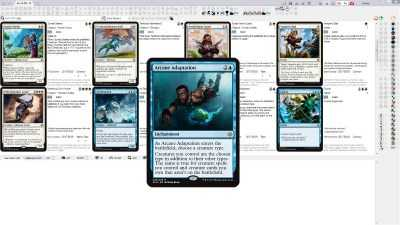
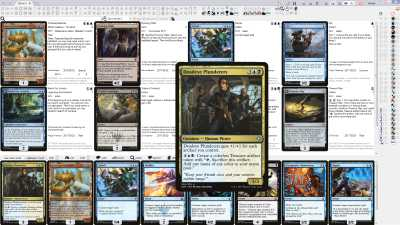
2.2.4 updated images in xln, c17

diff --git a/Mtgdb.Controls/BmpProcessor.cs b/Mtgdb.Controls/BmpProcessor.cs
@@ -10,37 +10,34 @@ namespace Mtgdb
 		private const int ByesPerPixel = 4;
 		private readonly Bitmap _bmp;
 
-		protected Rectangle Rect { get; private set; }
+		protected Rectangle Rect { get; }
 		protected byte[] RgbValues { get; private set; }
 		public bool ImageChanged { get; protected set; }
 
-		protected BmpProcessor(Bitmap bmp)
+		protected BmpProcessor(Bitmap bmp, Rectangle? rect = null)
 		{
 			_bmp = bmp;
+			Rect = rect ?? new Rectangle(Point.Empty, _bmp.Size);
 		}
 
 		public void Execute()
 		{
-			const PixelFormat pixelFormat = PixelFormat.Format32bppArgb;
-
-			// Lock the bitmap's bits.
-			Rect = new Rectangle(Point.Empty, _bmp.Size);
-			var bmpData = _bmp.LockBits(Rect, ImageLockMode.ReadWrite, pixelFormat);
+			const PixelFormat format = PixelFormat.Format32bppArgb;
+			var bmpData = _bmp.LockBits(Rect, ImageLockMode.ReadWrite, format);
 
 			try
 			{
 				// Declare an array to hold the bytes of the bitmap. 
-				int numBytes = bmpData.Stride * Rect.Height;
+				int numBytes = bmpData.Stride * bmpData.Height;
 				RgbValues = new byte[numBytes];
 
-				var firstBytePtr = bmpData.Scan0;
-				Marshal.Copy(firstBytePtr, RgbValues, 0, numBytes);
+				Marshal.Copy(bmpData.Scan0, RgbValues, 0, numBytes);
 
 				ExecuteRaw();
 
 				if (ImageChanged)
 					// Copy the RGB values back to the bitmap
-					Marshal.Copy(RgbValues, 0, firstBytePtr, numBytes);
+					Marshal.Copy(RgbValues, 0, bmpData.Scan0, numBytes);
 			}
 			finally
 			{
@@ -88,43 +85,41 @@ namespace Mtgdb
 		private const int ByesPerPixel = 4;
 
 		private readonly Bitmap _bmp;
-		private readonly BitmapData _bitmapData;
+		private readonly BitmapData _bmpData;
 
-		protected Rectangle Rect { get; }
+		private Rectangle _rect;
 		public byte[] RgbValues { get; }
 		
-		public BmpReader(Bitmap bmp)
+		public BmpReader(Bitmap bmp, Rectangle rect)
 		{
+			const PixelFormat format = PixelFormat.Format32bppArgb;
+
+			_rect = rect;
 			_bmp = bmp;
-			const PixelFormat pixelFormat = PixelFormat.Format32bppArgb;
-			// Lock the bitmap's bits.
-			Rect = new Rectangle(Point.Empty, _bmp.Size);
-
-			_bitmapData = _bmp.LockBits(Rect, ImageLockMode.ReadOnly, pixelFormat);
+			_bmpData = _bmp.LockBits(_rect, ImageLockMode.ReadOnly, format);
 			
-			int numBytes = _bitmapData.Stride * Rect.Height;
+			int numBytes = _bmpData.Stride * _bmpData.Height;
 			RgbValues = new byte[numBytes];
-
-			var firstBytePtr = _bitmapData.Scan0;
-			Marshal.Copy(firstBytePtr, RgbValues, 0, numBytes);
+			Marshal.Copy(_bmpData.Scan0, RgbValues, 0, numBytes);
 		}
 
 		public int GetLocation(int x, int y)
 		{
-			return ByesPerPixel * (Rect.Width * y + x);
+			return ByesPerPixel * (_rect.Width * y + x);
 		}
 
 		public void Dispose()
 		{
-			_bmp.UnlockBits(_bitmapData);
+			_bmp.UnlockBits(_bmpData);
 		}
 	}
 
 	public class BmpScaler : BmpProcessor
 	{
-		public BmpScaler(Bitmap bmp, Bitmap original) : base(bmp)
+		public BmpScaler(Bitmap bmp, Bitmap original, Rectangle sourceRect) : base(bmp)
 		{
 			_original = original;
+			_sourceRect = sourceRect;
 		}
 
 		protected override void ExecuteRaw()
@@ -134,7 +129,7 @@ namespace Mtgdb
 			float scaleX = (float)_original.Width / Rect.Width;
 			float scaleY = (float)_original.Height / Rect.Height;
 			
-			using (var original = new BmpReader(_original))
+			using (var original = new BmpReader(_original, _sourceRect))
 				for (int i = 0; i < Rect.Width; i++)
 				{
 					float left = i * scaleX;
@@ -214,5 +209,6 @@ namespace Mtgdb
 		}
 
 		private readonly Bitmap _original;
+		private readonly Rectangle _sourceRect;
 	}
 }

diff --git a/Test/Mtgdb.Test/ExportImages/ExportImages.cs b/Test/Mtgdb.Test/ExportImages/ExportImages.cs
@@ -1,0 +1,51 @@
+using Mtgdb.Controls;
+using Mtgdb.Dal;
+using Mtgdb.Util;
+using Ninject;
+using NUnit.Framework;
+
+namespace Mtgdb.Test
+{
+	[TestFixture]
+	public class ExportImages
+	{
+		private ForgeIntegration _integration;
+
+		[OneTimeSetUp]
+		public void Setup()
+		{
+			BitmapExtensions.CustomScaleStrategy = ImageMagickScaler.Scale;
+
+			var kernel = new StandardKernel();
+			kernel.Load<CoreModule>();
+			kernel.Load<DalModule>();
+			kernel.Load<UtilModule>();
+
+			var repo = kernel.Get<CardRepository>();
+			repo.LoadFile();
+			repo.Load();
+
+			var imgRepo = kernel.Get<ImageRepository>();
+
+			imgRepo.LoadFiles();
+			imgRepo.LoadZoom();
+
+			repo.SelectCardImages(imgRepo);
+
+			_integration = kernel.Get<ForgeIntegration>();
+		}
+
+		//[TestCase("XLN", @"D:\Distrib\games\mtg\Mtgdb.Pictures", "lq", "mq")]
+		[TestCase("C17", @"D:\Distrib\games\mtg\Mtgdb.Pictures", "lq", "mq")]
+		public void Export(string set, string targetDir, string smallSubdir, string zoomSubdir)
+		{
+			_integration.ExportCardImages(
+				targetDir,
+				small: true,
+				zoomed: true,
+				code: set,
+				smallSubdir: smallSubdir,
+				zoomedSubdir: zoomSubdir);
+		}
+	}
+}

diff --git a/Mtgdb.Controls/BitmapExtensions.cs b/Mtgdb.Controls/BitmapExtensions.cs
@@ -7,6 +7,8 @@ namespace Mtgdb.Controls
 {
 	public static class BitmapExtensions
 	{
+		public static Func<Bitmap, Rectangle, Size, Bitmap> CustomScaleStrategy { get; set; }
+
 		public static Bitmap ResizeDpi(this Bitmap original)
 		{
 			return original.FitIn(original.Size.ByDpi());
@@ -25,13 +27,23 @@ namespace Mtgdb.Controls
 
 			size = croppedSize.FitIn(size);
 
-			if (size == original.Size)
+			if (size == original.Size && frame == default(Size))
 				return (Bitmap) original.Clone();
 
-			var result = new Bitmap(size.Width, size.Height);
-			var scaler = new BmpScaler(result, original);
-			scaler.Execute();
+			var sourceRect = new Rectangle(new Point(frame), croppedSize);
 
+			var result = scale(original, sourceRect, size);
+			return result;
+		}
+
+		private static Bitmap scale(Bitmap original, Rectangle sourceRect, Size size)
+		{
+			if (CustomScaleStrategy != null)
+				return CustomScaleStrategy(original, sourceRect, size);
+
+			var result = new Bitmap(size.Width, size.Height);
+			var scaler = new BmpScaler(result, original, sourceRect);
+			scaler.Execute();
 			return result;
 		}
 

diff --git a/Test/Mtgdb.Test/DownsamplingTests.cs b/Test/Mtgdb.Test/DownsamplingTests.cs
@@ -1,5 +1,4 @@
-using System.Drawing;
-using System.IO;
+using System.IO;
 using ImageMagick;
 using NUnit.Framework;
 
@@ -8,13 +7,22 @@ namespace Mtgdb.Test
 	[TestFixture]
 	public class DownsamplingTests
 	{
-		[TestCase("F:\\Repo\\Git\\Mtgdb\\Mtgdb.Gui\\Resources\\r.png")]
+		[TestCase(@"D:\Distrib\games\mtg\Mega\XLHQ\XLN - Ixalan\300DPI Cards\Adanto, the First Fort.xlhq.jpg")]
 		public void Resample(string file)
 		{
+			string name = Path.GetFileNameWithoutExtension(file);
+			string targetDir = "D:\\temp\\img\\";
+
 			using (var image = new MagickImage(file))
 			{
 				image.Resize(new Percentage(50));
-				image.Write("D:\\temp\\img\\" + Path.GetFileName(file));
+				image.Write(targetDir + name + "resized.jpg");
+			}
+
+			using (var image = new MagickImage(file))
+			{
+				image.Scale(new Percentage(50));
+				image.Write(targetDir + name + "scaled.jpg");
 			}
 		}
 	}

diff --git a/Mtgdb.Dal/ImageCache/ImageCache.cs b/Mtgdb.Dal/ImageCache/ImageCache.cs
@@ -1,6 +1,5 @@
 using System.Collections.Generic;
 using System.Drawing;
-using System.Drawing.Drawing2D;
 using System.IO;
 using Mtgdb.Controls;
 using Mtgdb.Gui;
@@ -10,6 +9,8 @@ namespace Mtgdb.Dal
 {
 	public class ImageCache
 	{
+		public static object SyncRoot = new object();
+
 		public ImageCache(ImageCacheConfig config, SmallConfig smallConfig, ZoomedConfig zoomedConfig)
 		{
 			if (smallConfig.Width.HasValue && smallConfig.Height.HasValue)
@@ -73,7 +74,12 @@ namespace Mtgdb.Dal
 
 			try
 			{
-				original = new Bitmap(model.FullPath);
+				byte[] bytes;
+
+				lock (SyncRoot)
+					bytes = File.ReadAllBytes(model.FullPath);
+
+				original = new Bitmap(new MemoryStream(bytes));
 			}
 			catch
 			{

diff --git a/Test/Mtgdb.Test/ExportImages/ImageMagickScaler.cs b/Test/Mtgdb.Test/ExportImages/ImageMagickScaler.cs
@@ -1,0 +1,22 @@
+using System.Drawing;
+using ImageMagick;
+
+namespace Mtgdb.Util
+{
+	public static class ImageMagickScaler
+	{
+		public static Bitmap Scale(Bitmap original, Rectangle sourceRect, Size targetSize)
+		{
+			using (var magic = new MagickImage(original))
+			{
+				if (sourceRect != new Rectangle(Point.Empty, original.Size))
+					magic.Crop(new MagickGeometry(sourceRect));
+
+				if (targetSize != sourceRect.Size)
+					magic.Resize(new MagickGeometry(targetSize.Width, targetSize.Height));
+
+				return magic.ToBitmap();
+			}
+		}
+	}
+}

diff --git a/Mtgdb.Util/ForgeIntegration.cs b/Mtgdb.Util/ForgeIntegration.cs
@@ -245,10 +245,12 @@ namespace Mtgdb.Util
 
 		private byte[] transform(Bitmap original, ImageModel replacementModel, bool small, bool forge)
 		{
+			var size = small ? _imageCache.CardSize : _imageCache.ZoomedCardSize;
+
 			var image = _imageCache.Transform(
 				original,
 				replacementModel,
-				small ? _imageCache.CardSize : _imageCache.ZoomedCardSize,
+				size,
 				transparentCorners: false,
 				crop: _crop,
 				whiteCorner: _whiteCorner);

diff --git a/Mtgdb.Downloader/ImageDownloader.cs b/Mtgdb.Downloader/ImageDownloader.cs
@@ -102,7 +102,18 @@ namespace Mtgdb.Downloader
 				{
 					alreadyDownloaded = false;
 					Console.WriteLine("Deleting modified or corrupted file {0}", filePath);
-					File.Delete(filePath);
+
+					lock (ImageCache.SyncRoot)
+					{
+						try
+						{
+							File.Delete(filePath);
+						}
+						catch (IOException ex)
+						{
+							Console.WriteLine($"Failed to remove {filePath}. {ex.Message}");
+						}
+					}
 				}
 				else
 				{

diff --git a/Mtgdb.Gui/FormRoot/DownloaderSubsystem.cs b/Mtgdb.Gui/FormRoot/DownloaderSubsystem.cs
@@ -24,7 +24,9 @@ namespace Mtgdb.Gui
 		{
 			_updateForm.CalculateProgress();
 
-			var progress = _updateForm.ImageDownloadProgress;
+			var progress = _updateForm.ImageDownloadProgress
+				.Where(p => !Str.Equals(p.QualityGroup.Quality, "Art"))
+				.ToArray();
 
 			var countTotal = progress
 				.Sum(_ => _.FilesOnline?.Count ?? 0);

diff --git a/Mtgdb.Util/[ infrastructure ]/UtilProgram.cs b/Mtgdb.Util/[ infrastructure ]/UtilProgram.cs
@@ -75,8 +75,6 @@ namespace Mtgdb.Util
 			}
 		}
 
-		
-
 		private static void exportImages(bool small, bool zoomed, string setCodes, string directory, bool silent, string smallSubdir, string zoomedSubdir)
 		{
 			var integration = _kernel.Get<ForgeIntegration>();

diff --git a/SolutionInfo.cs b/SolutionInfo.cs
@@ -1,3 +1,3 @@
 using System.Reflection;
 
-[assembly: AssemblyVersion("2.3.3")]
+[assembly: AssemblyVersion("2.3.4")]
